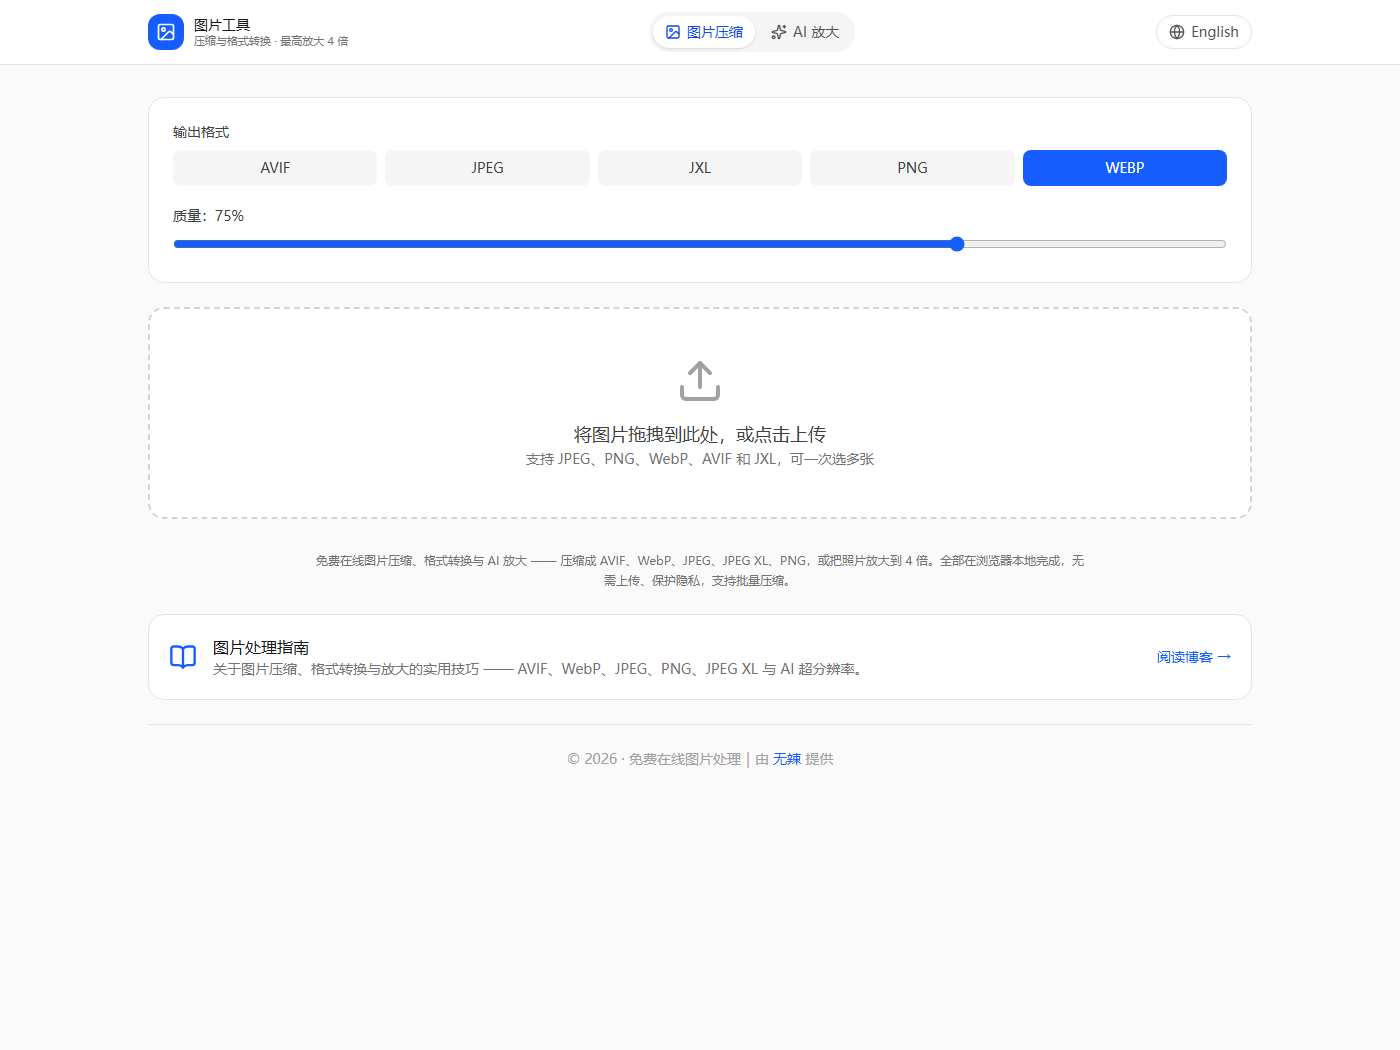
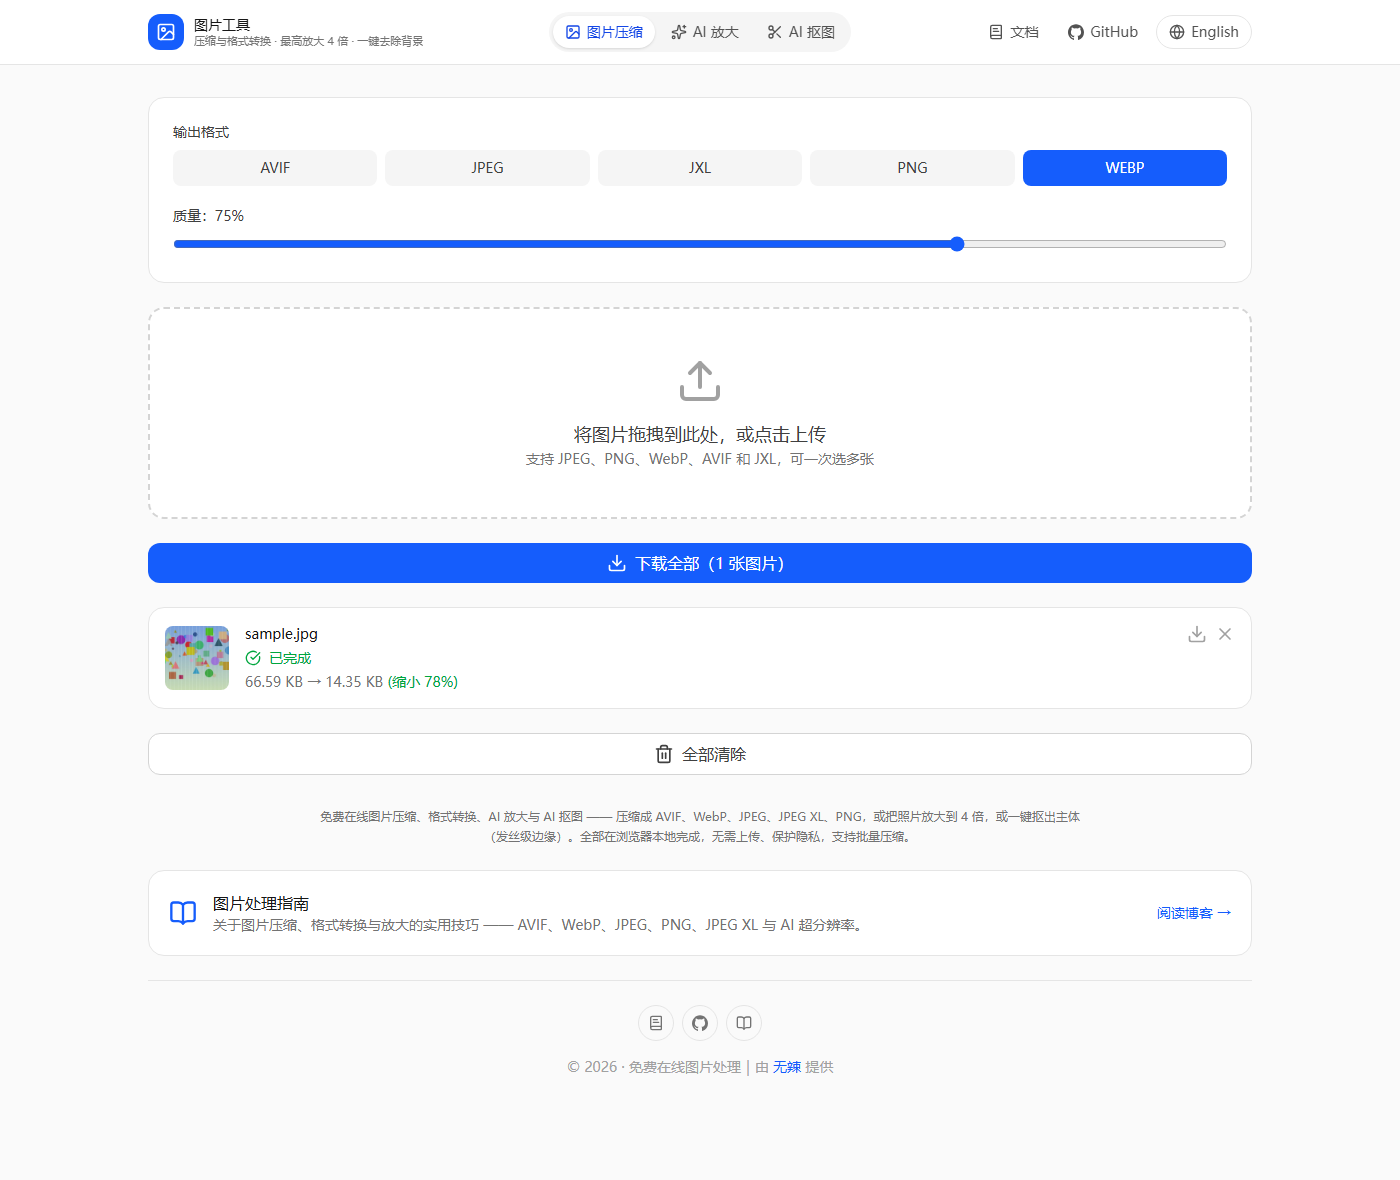
重取 README 三张界面截图
- 压缩页：显示 66.59 KB → 14.35 KB（缩小 78%）
- 放大页：对比滑块 + 900×640 → 3600×2560, 18.4 MP, 41.2 s
- 抠图页：新增发丝抠图对比，WASM 10.0 s 8.9 MP
- 放大截图由 PNG 改 JPEG（含真实照片，体积从 1.1 MB 降到 198 KB）

diff --git a/README.md b/README.md
@@ -12,9 +12,11 @@ output is a pile of static files, so **no backend is required**.
 Live: <https://img.1day.vip/>
 Docs: <https://img.1day.vip/en/docs/>
 
-![Screenshot](./public/screenshot-zh.png)
+![Compression UI](./public/screenshot-zh.png)
 
-![Upscaling UI](./public/screenshot-upscale-zh.png)
+![AI upscaling UI](./public/screenshot-upscale-zh.jpg)
+
+![AI cutout UI](./public/screenshot-cutout-zh.jpg)
 
 ## Features
 

diff --git a/README_zh.md b/README_zh.md
@@ -11,9 +11,11 @@
 线上地址：<https://img.1day.vip/>
 文档：<https://img.1day.vip/docs/>
 
-![压缩界面](./public/screenshot-zh.png)
+![图片压缩界面](./public/screenshot-zh.png)
 
-![放大界面](./public/screenshot-upscale-zh.png)
+![AI 放大界面](./public/screenshot-upscale-zh.jpg)
+
+![AI 抠图界面](./public/screenshot-cutout-zh.jpg)
 
 ## 功能
 
